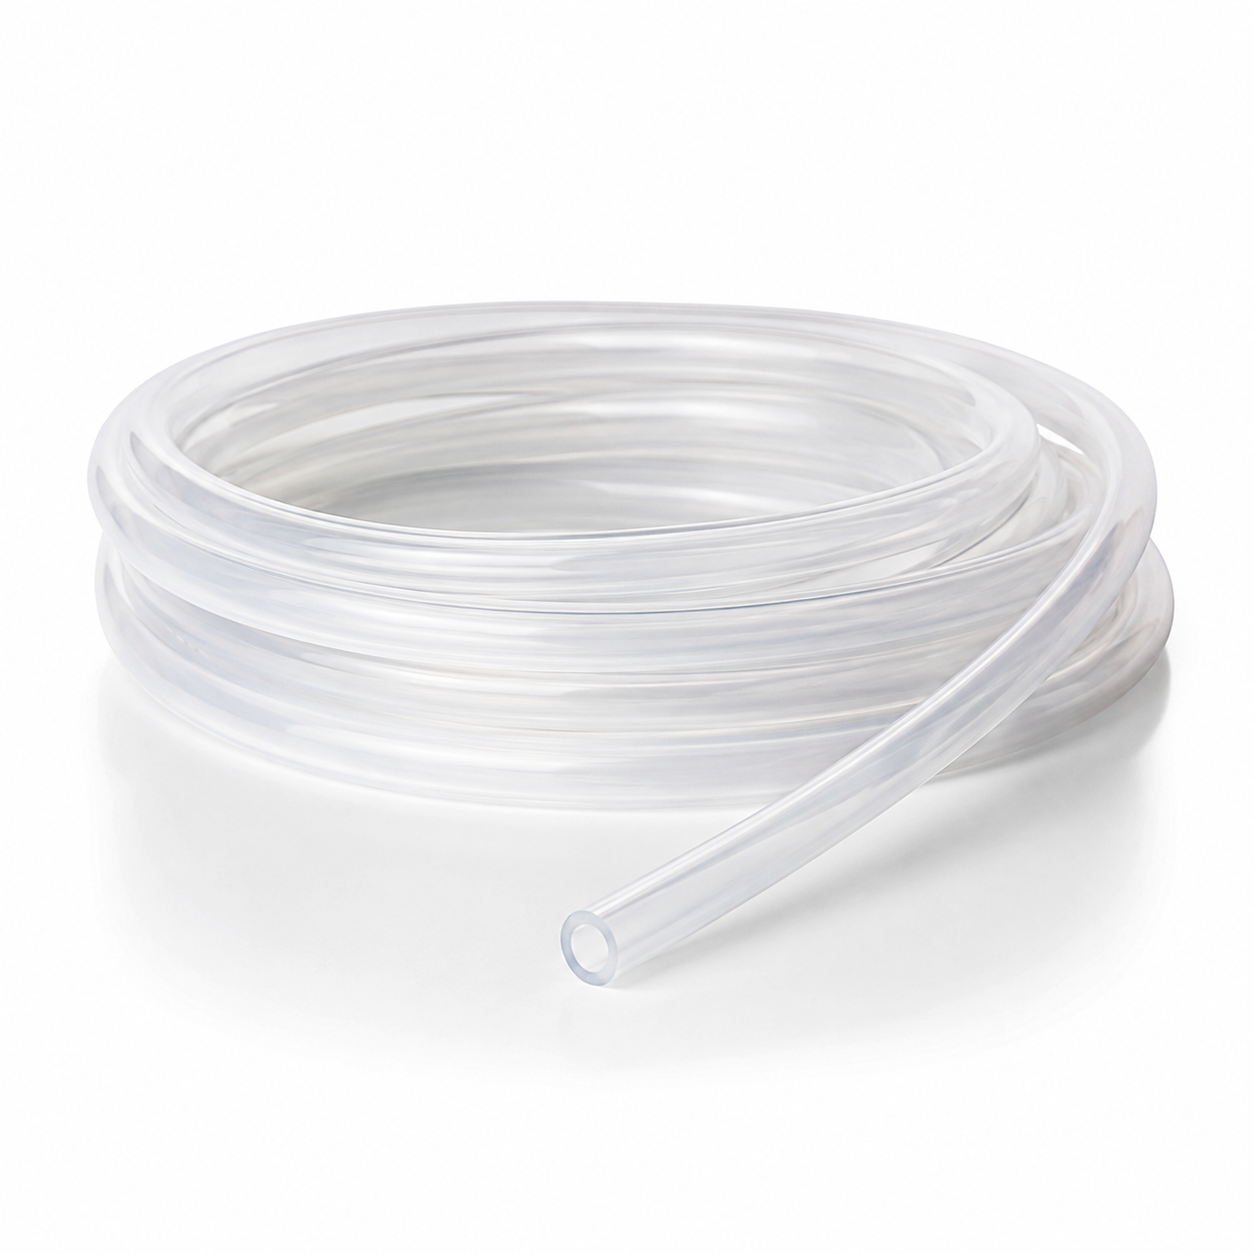
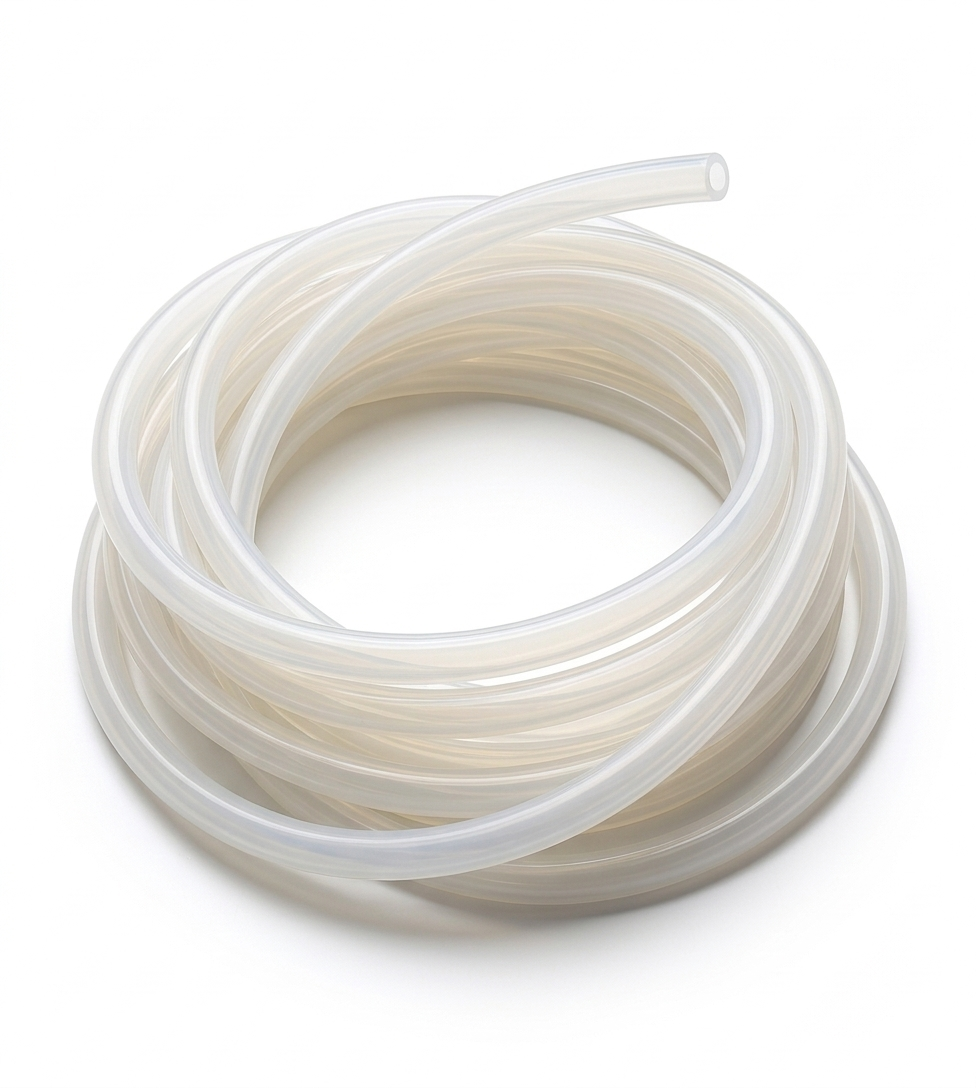
Add files via upload

diff --git a/components/sections/rfq-form.tsx b/components/sections/rfq-form.tsx
@@ -8,139 +8,29 @@ import { products, standardSizes } from '@/lib/products'
 import type { Dictionary } from '@/lib/i18n/get-dictionary'
 
 const initialState: RfqState = { status: 'idle' }
-
-const inputClass =
-  'w-full border border-white/25 bg-white/5 px-3.5 py-2.5 text-sm text-white outline-none transition-colors placeholder:text-white/50 focus:border-accent focus:ring-2 focus:ring-accent/25'
-
+const inputClass = 'w-full border border-input bg-white px-3.5 py-3 text-sm text-foreground outline-none transition-colors placeholder:text-muted-foreground focus:border-accent focus:ring-2 focus:ring-accent/20 [color-scheme:light]'
 const labelClass = 'font-mono text-[0.7rem] tracking-[0.12em] uppercase text-muted-foreground'
 
 export function RfqForm({ dict }: { dict: Dictionary }) {
   const [state, formAction, pending] = useActionState(submitRfq, initialState)
   const f = dict.rfq.fields
-
-  if (state.status === 'success') {
-    return (
-      <div className="flex flex-col items-start gap-3 border border-accent/40 bg-card p-8">
-        <CheckCircle2 className="size-7 text-accent" aria-hidden="true" />
-        <h3 className="font-display text-xl font-bold tracking-tight text-primary">{dict.rfq.successTitle}</h3>
-        <p className="text-sm leading-relaxed text-muted-foreground">{dict.rfq.successText}</p>
-      </div>
-    )
-  }
-
+  if (state.status === 'success') return <div className="flex flex-col items-start gap-3 border border-accent/40 bg-card p-7"><CheckCircle2 className="size-7 text-accent" aria-hidden="true" /><h3 className="font-display text-xl font-bold tracking-tight text-primary">{dict.rfq.successTitle}</h3><p className="text-sm leading-relaxed text-muted-foreground">{dict.rfq.successText}</p></div>
   return (
-    <form action={formAction} className="flex flex-col gap-5 border border-border bg-card p-6 md:p-8">
-      <div className="grid gap-5 sm:grid-cols-2">
-        <div className="flex flex-col gap-1.5">
-          <label htmlFor="rfq-company" className={labelClass}>
-            {f.company} *
-          </label>
-          <input id="rfq-company" name="company" required maxLength={160} className={inputClass} />
-        </div>
-        <div className="flex flex-col gap-1.5">
-          <label htmlFor="rfq-name" className={labelClass}>
-            {f.name} *
-          </label>
-          <input id="rfq-name" name="name" required maxLength={160} className={inputClass} />
-        </div>
-        <div className="flex flex-col gap-1.5">
-          <label htmlFor="rfq-email" className={labelClass}>
-            {f.email} *
-          </label>
-          <input
-            id="rfq-email"
-            name="email"
-            type="email"
-            required
-            autoComplete="email"
-            maxLength={200}
-            className={inputClass}
-          />
-        </div>
-        <div className="flex flex-col gap-1.5">
-          <label htmlFor="rfq-phone" className={labelClass}>
-            {f.phone} <span className="normal-case">({f.optional})</span>
-          </label>
-          <input id="rfq-phone" name="phone" type="tel" autoComplete="tel" maxLength={60} className={inputClass} />
-        </div>
-        <div className="flex flex-col gap-1.5">
-          <label htmlFor="rfq-country" className={labelClass}>
-            {f.country} <span className="normal-case">({f.optional})</span>
-          </label>
-          <input id="rfq-country" name="country" maxLength={80} className={inputClass} />
-        </div>
-        <div className="flex flex-col gap-1.5">
-          <label htmlFor="rfq-quantity" className={labelClass}>
-            {f.quantity} <span className="normal-case">({f.optional})</span>
-          </label>
-          <input id="rfq-quantity" name="quantity" maxLength={80} className={inputClass} />
-        </div>
-        <div className="flex flex-col gap-1.5 sm:col-span-2">
-          <label htmlFor="rfq-product" className={labelClass}>
-            {f.product}
-          </label>
-          <select id="rfq-product" name="product" defaultValue="" className={inputClass}>
-            <option value="" disabled>
-              {f.productPlaceholder}
-            </option>
-            {products.map((product) => (
-              <option key={product.id} value={product.code}>
-                {dict.products.items[product.id].name} ({product.code})
-              </option>
-            ))}
-            <option value="other">{f.productOther}</option>
-          </select>
-        </div>
-        <div className="flex flex-col gap-1.5 sm:col-span-2">
-          <label htmlFor="rfq-size" className={labelClass}>{f.size}</label>
-          <select id="rfq-size" name="size" defaultValue="" className={inputClass}>
-            <option value="" disabled>{f.sizePlaceholder}</option>
-            {standardSizes.map((size) => <option key={size} value={`${size} mm`}>{size} mm</option>)}
-            <option value="custom">{f.sizeCustom}</option>
-          </select>
-        </div>
-        <div className="flex flex-col gap-1.5 sm:col-span-2">
-          <label htmlFor="rfq-message" className={labelClass}>
-            {f.message}
-          </label>
-          <textarea
-            id="rfq-message"
-            name="message"
-            rows={5}
-            maxLength={4000}
-            placeholder={f.messagePlaceholder}
-            className={`${inputClass} resize-y leading-relaxed`}
-          />
-        </div>
+    <form action={formAction} className="liquid-card flex flex-col gap-5 border border-border bg-card p-5 md:p-7">
+      <div className="grid gap-4 sm:grid-cols-2">
+        <div className="flex flex-col gap-1.5"><label htmlFor="rfq-company" className={labelClass}>{f.company} *</label><input id="rfq-company" name="company" required maxLength={160} className={inputClass} /></div>
+        <div className="flex flex-col gap-1.5"><label htmlFor="rfq-name" className={labelClass}>{f.name} *</label><input id="rfq-name" name="name" required maxLength={160} className={inputClass} /></div>
+        <div className="flex flex-col gap-1.5"><label htmlFor="rfq-email" className={labelClass}>{f.email} *</label><input id="rfq-email" name="email" type="email" required autoComplete="email" maxLength={200} className={inputClass} /></div>
+        <div className="flex flex-col gap-1.5"><label htmlFor="rfq-phone" className={labelClass}>{f.phone} <span className="normal-case">({f.optional})</span></label><input id="rfq-phone" name="phone" type="tel" autoComplete="tel" maxLength={60} className={inputClass} /></div>
+        <div className="flex flex-col gap-1.5"><label htmlFor="rfq-country" className={labelClass}>{f.country} <span className="normal-case">({f.optional})</span></label><input id="rfq-country" name="country" maxLength={80} className={inputClass} /></div>
+        <div className="flex flex-col gap-1.5"><label htmlFor="rfq-quantity" className={labelClass}>{f.quantity} <span className="normal-case">({f.optional})</span></label><input id="rfq-quantity" name="quantity" maxLength={80} className={inputClass} /></div>
+        <div className="flex flex-col gap-1.5 sm:col-span-2"><label htmlFor="rfq-product" className={labelClass}>{f.product}</label><select id="rfq-product" name="product" defaultValue="" className={inputClass}><option value="" disabled>{f.productPlaceholder}</option>{products.map((product) => <option key={product.id} value={product.code}>{dict.products.items[product.id].name} ({product.code})</option>)}<option value="other">{f.productOther}</option></select></div>
+        <div className="flex flex-col gap-1.5 sm:col-span-2"><label htmlFor="rfq-size" className={labelClass}>{f.size}</label><select id="rfq-size" name="size" defaultValue="" className={inputClass}><option value="" disabled>{f.sizePlaceholder}</option>{standardSizes.map((size) => <option key={size} value={`${size} mm`}>{size} mm</option>)}<option value="custom">{f.sizeCustom}</option></select></div>
+        <div className="flex flex-col gap-1.5 sm:col-span-2"><label htmlFor="rfq-message" className={labelClass}>{f.message}</label><textarea id="rfq-message" name="message" rows={4} maxLength={4000} placeholder={f.messagePlaceholder} className={`${inputClass} resize-y leading-relaxed`} /></div>
       </div>
-
-      {/* Honeypot — hidden from users, catches automated submissions */}
-      <div className="sr-only" aria-hidden="true">
-        <label htmlFor="rfq-website">Website</label>
-        <input id="rfq-website" name="website" tabIndex={-1} autoComplete="off" />
-      </div>
-
-      {state.status !== 'idle' && (
-        <p
-          role="alert"
-          className="flex items-start gap-2.5 border border-destructive/30 bg-destructive/5 p-3.5 text-sm leading-relaxed text-destructive"
-        >
-          <AlertTriangle className="mt-0.5 size-4 shrink-0" aria-hidden="true" />
-          {state.status === 'invalid' ? dict.rfq.required : dict.rfq.errorText}
-        </p>
-      )}
-
-      <div className="flex flex-wrap items-center gap-x-5 gap-y-3">
-        <button
-          type="submit"
-          disabled={pending}
-          className="inline-flex items-center gap-2 bg-accent px-6 py-3.5 text-sm font-semibold text-accent-foreground transition-colors hover:bg-[#f08a44] disabled:cursor-not-allowed disabled:opacity-60"
-        >
-          <Send className="size-4" aria-hidden="true" />
-          {pending ? dict.rfq.submitting : dict.rfq.submit}
-        </button>
-        <p className="text-xs leading-relaxed text-muted-foreground">{dict.rfq.privacy}</p>
-      </div>
+      <div className="sr-only" aria-hidden="true"><label htmlFor="rfq-website">Website</label><input id="rfq-website" name="website" tabIndex={-1} autoComplete="off" /></div>
+      {state.status !== 'idle' && <p role="alert" className="flex items-start gap-2.5 border border-destructive/30 bg-destructive/5 p-3.5 text-sm leading-relaxed text-destructive"><AlertTriangle className="mt-0.5 size-4 shrink-0" aria-hidden="true" />{state.status === 'invalid' ? dict.rfq.required : dict.rfq.errorText}</p>}
+      <div className="flex flex-wrap items-center gap-x-5 gap-y-3"><button type="submit" disabled={pending} className="inline-flex items-center gap-2 bg-accent px-6 py-3.5 text-sm font-semibold text-accent-foreground transition-colors hover:bg-accent/85 disabled:cursor-not-allowed disabled:opacity-60"><Send className="size-4" aria-hidden="true" />{pending ? dict.rfq.submitting : dict.rfq.submit}</button><p className="text-xs leading-relaxed text-muted-foreground">{dict.rfq.privacy}</p></div>
     </form>
   )
 }

diff --git a/components/sections/hero.tsx b/components/sections/hero.tsx
@@ -1,4 +1,3 @@
-import Image from 'next/image'
 import { ArrowRight } from 'lucide-react'
 
 import { SiliconeFlow } from '@/components/sections/silicone-flow'
@@ -7,61 +6,31 @@ import type { Dictionary } from '@/lib/i18n/get-dictionary'
 export function Hero({ dict }: { dict: Dictionary }) {
   return (
     <section className="hero-device relative isolate overflow-hidden bg-background">
-      <Image
-        src="/production-line-new.png"
-        alt={dict.hero.imageAlt}
-        fill
-        priority
-        sizes="100vw"
-        className="absolute inset-0 -z-20 object-cover opacity-18"
-      />
-      <div
-        aria-hidden="true"
-        className="absolute inset-0 -z-10 bg-linear-to-r from-white via-white/92 to-white/58"
-      />
+      <div aria-hidden="true" className="absolute inset-0 -z-20 bg-[radial-gradient(circle_at_68%_42%,rgba(232,243,249,.95),rgba(255,255,255,.35)_32%,transparent_58%),linear-gradient(120deg,#ffffff_0%,#f7fafc_42%,#edf4f7_100%)]" />
       <SiliconeFlow />
-      <div className="container-page relative flex flex-col justify-end pt-16 pb-0 md:pt-24 lg:min-h-[36rem]">
-        <div className="max-w-3xl pb-14 md:pb-20">
-          <p className="font-mono text-xs tracking-[0.2em] uppercase text-accent">
-            {dict.hero.eyebrow}
-          </p>
-          <h1 className="mt-6 font-display text-4xl leading-[1.05] font-bold tracking-tight text-balance text-primary sm:text-5xl lg:text-6xl">
+      <div className="container-page relative flex min-h-[calc(100svh-5.5rem)] flex-col justify-center py-14 md:py-18 lg:min-h-[calc(100svh-6rem)]">
+        <div className="max-w-2xl">
+          <p className="font-mono text-xs tracking-[0.18em] uppercase text-accent">{dict.hero.eyebrow}</p>
+          <h1 className="mt-5 font-display text-4xl leading-[1.04] font-bold tracking-tight text-balance text-primary sm:text-5xl lg:text-[4.6rem]">
             {dict.hero.title}
           </h1>
-          <p className="mt-6 max-w-2xl text-base leading-relaxed text-pretty text-muted-foreground md:text-lg">
+          <p className="mt-5 max-w-xl text-base leading-relaxed text-pretty text-muted-foreground md:text-lg">
             {dict.hero.lead}
           </p>
-          <div className="mt-9 flex flex-wrap items-center gap-3">
-            <a
-              href="#contact"
-              className="inline-flex items-center gap-2 bg-accent px-6 py-3.5 text-sm font-semibold text-accent-foreground transition-colors hover:bg-accent/85"
-            >
-              {dict.hero.primaryCta}
-              <ArrowRight className="size-4" aria-hidden="true" />
+          <div className="mt-8 flex flex-wrap items-center gap-3">
+            <a href="#contact" className="inline-flex items-center gap-2 bg-accent px-6 py-3.5 text-sm font-semibold text-accent-foreground transition-colors hover:bg-accent/85">
+              {dict.hero.primaryCta}<ArrowRight className="size-4" aria-hidden="true" />
             </a>
-            <a
-              href="#products"
-              className="inline-flex items-center gap-2 border border-primary/25 px-6 py-3.5 text-sm font-semibold text-primary transition-colors hover:border-primary/60"
-            >
+            <a href="#products" className="inline-flex items-center gap-2 border border-primary/25 bg-white/55 px-6 py-3.5 text-sm font-semibold text-primary backdrop-blur transition-colors hover:border-primary/60 hover:bg-white/80">
               {dict.hero.secondaryCta}
             </a>
           </div>
         </div>
-
-        <dl className="grid grid-cols-2 border-t border-primary-foreground/15 lg:grid-cols-4">
+        <dl className="mt-12 grid grid-cols-2 border-t border-primary/12 lg:grid-cols-4">
           {dict.hero.facts.map((fact, index) => (
-            <div
-              key={fact.label}
-              className={`flex flex-col gap-1.5 py-6 lg:py-7 ${
-                index === 0 ? 'lg:pr-8' : 'lg:px-8'
-              } ${index % 2 === 1 ? 'border-l border-primary-foreground/15 pl-5' : 'pr-5'} ${
-                index > 1 ? 'border-t border-primary-foreground/15 lg:border-t-0' : ''
-              } lg:border-l lg:first:border-l-0 lg:first:pl-0`}
-            >
+            <div key={fact.label} className={`flex flex-col gap-1.5 py-5 lg:py-6 ${index === 0 ? 'lg:pr-8' : 'lg:px-8'} ${index % 2 === 1 ? 'border-l border-primary/12 pl-5' : 'pr-5'} ${index > 1 ? 'border-t border-primary/12 lg:border-t-0' : ''} lg:border-l lg:first:border-l-0 lg:first:pl-0`}>
               <dt className="order-2 text-xs leading-relaxed text-primary/60">{fact.label}</dt>
-              <dd className="order-1 font-display text-xl font-bold tracking-tight text-primary md:text-2xl">
-                {fact.value}
-              </dd>
+              <dd className="order-1 font-display text-xl font-bold tracking-tight text-primary md:text-2xl">{fact.value}</dd>
             </div>
           ))}
         </dl>

diff --git a/app/globals.css b/app/globals.css
@@ -179,3 +179,11 @@ html{background:#f8fafb}.text-muted-foreground{color:#526579!important}.bg-backg
 @media (min-width: 769px) and (max-width: 1180px){.section-device{padding-top:5rem!important;padding-bottom:5rem!important}}
 @media (min-width: 1181px){.section-device{padding-top:6.5rem!important;padding-bottom:6.5rem!important}}
 .silicone-flow{position:absolute;right:clamp(-90px,2vw,40px);top:52%;z-index:-5;width:min(58vw,760px);transform:translateY(-50%);opacity:.72;pointer-events:none}.silicone-flow__svg{width:100%;height:auto;overflow:visible}.silicone-flow__shadow{fill:none;stroke:rgba(23,54,93,.10);stroke-width:58;stroke-linecap:round;filter:blur(18px)}.silicone-flow__tube{fill:none;stroke:url(#tubeStroke);stroke-width:46;stroke-linecap:round;filter:url(#softGlass)}.silicone-flow__core{fill:none;stroke:url(#tubeCore);stroke-width:25;stroke-linecap:round;opacity:.72}.silicone-flow__highlight{fill:none;stroke:#fff;stroke-width:6;stroke-linecap:round;stroke-dasharray:90 620;animation:flow-glint 4.8s cubic-bezier(.16,1,.3,1) infinite}.silicone-flow__highlight--two{stroke-width:3;opacity:.68;animation-delay:1.4s}.silicone-flow__end{fill:rgba(232,242,248,.85);stroke:rgba(23,54,93,.20);stroke-width:2}.silicone-flow__hole{fill:rgba(23,54,93,.18);stroke:rgba(255,255,255,.75);stroke-width:2}@keyframes flow-glint{0%{stroke-dashoffset:720;opacity:0}18%{opacity:.9}72%{opacity:.65}100%{stroke-dashoffset:0;opacity:0}}@media(max-width:900px){.silicone-flow{right:-38%;top:44%;width:115vw;opacity:.36}}@media(prefers-reduced-motion:reduce){.silicone-flow__highlight{animation:none}}
+
+
+/* Liquid silicone glass surfaces */
+.liquid-card,.liquid-glass-strong{background:rgba(255,255,255,.58)!important;background-blend-mode:luminosity;backdrop-filter:blur(28px);-webkit-backdrop-filter:blur(28px);box-shadow:0 1px 2px rgba(23,54,93,.05),inset 0 1px 1px rgba(255,255,255,.65);position:relative;overflow:hidden}.liquid-card::before,.liquid-glass-strong::before{content:"";position:absolute;inset:0;padding:1px;background:linear-gradient(180deg,rgba(255,255,255,.9),rgba(255,255,255,.2) 36%,rgba(23,54,93,.08) 62%,rgba(255,255,255,.8));-webkit-mask:linear-gradient(#fff 0 0) content-box,linear-gradient(#fff 0 0);-webkit-mask-composite:xor;mask-composite:exclude;pointer-events:none}.hero-device .container-page{min-height:calc(100svh - 7rem)!important}.section-device{padding-top:4.5rem!important;padding-bottom:4.5rem!important}@media(max-width:768px){.hero-device .container-page{min-height:auto!important;padding-top:5rem!important;padding-bottom:2.25rem!important}.section-device{padding-top:3.25rem!important;padding-bottom:3.25rem!important}.silicone-flow{top:46%;}}
+
+
+/* Final compact layout + readable RFQ + liquid silicone hero */
+header .container-page{max-width:1160px}.container-page{max-width:1160px}.hero-device{min-height:clamp(560px,calc(100svh - 0px),760px)!important}.hero-device .container-page{min-height:clamp(500px,calc(100svh - 7rem),680px)!important}.section-device{padding-top:3.75rem!important;padding-bottom:3.75rem!important}.scroll-mt-28{scroll-margin-top:5.25rem}.hero-device img{display:none!important}.silicone-flow{right:clamp(-160px,-6vw,-40px)!important;top:49%!important;width:min(72vw,920px)!important;opacity:.92!important}.silicone-flow__shadow{stroke:rgba(23,54,93,.12)!important;stroke-width:76!important;filter:blur(22px)!important}.silicone-flow__tube{stroke-width:58!important}.silicone-flow__core{stroke-width:34!important;opacity:.76!important}.silicone-flow__highlight{stroke-width:8!important;stroke-dasharray:120 760!important}.liquid-card{background:rgba(255,255,255,.86)!important;backdrop-filter:blur(20px);-webkit-backdrop-filter:blur(20px)}.liquid-card input,.liquid-card textarea,.liquid-card select{background:#fff!important;color:#17365d!important;border-color:#b9c9d4!important}.liquid-card input::placeholder,.liquid-card textarea::placeholder{color:#718395!important}.liquid-card label{color:#526579!important}.liquid-card option{color:#17365d;background:#fff}.bg-primary{background:#17365d!important}.text-primary-foreground\/80{color:rgba(255,255,255,.86)!important}@media(max-width:900px){.silicone-flow{right:-56%!important;top:45%!important;width:150vw!important;opacity:.42!important}.hero-device{min-height:auto!important}.hero-device .container-page{min-height:auto!important;padding-top:5.25rem!important;padding-bottom:2rem!important}.section-device{padding-top:3rem!important;padding-bottom:3rem!important}}

diff --git a/components/site-header.tsx b/components/site-header.tsx
@@ -24,14 +24,14 @@ export function SiteHeader({ locale, dict }: { locale: Locale; dict: Dictionary 
   return (
     <header className="sticky top-0 z-50">
       <div className="hidden bg-primary text-primary-foreground/80 md:block">
-        <div className="container-page flex h-9 items-center justify-between text-xs">
+        <div className="container-page flex h-6 items-center justify-between text-[10px]">
           <p className="flex items-center gap-2">
             <MapPin className="size-3.5 shrink-0 text-accent" aria-hidden="true" />
             <span>
               {company.street}, {company.postalCode} {company.city}, {company.country}
             </span>
           </p>
-          <div className="flex items-center gap-5">
+          <div className="flex items-center gap-4">
             <a href={`tel:${company.phoneHref}`} className="flex items-center gap-2 transition-colors hover:text-primary-foreground">
               <Phone className="size-3.5 shrink-0 text-accent" aria-hidden="true" />
               {company.phone}
@@ -46,7 +46,7 @@ export function SiteHeader({ locale, dict }: { locale: Locale; dict: Dictionary 
       </div>
 
       <div className="border-b border-border bg-background/95 backdrop-blur supports-[backdrop-filter]:bg-background/85">
-        <div className="container-page flex h-16 items-center justify-between gap-6 lg:h-20">
+        <div className="container-page flex h-13 items-center justify-between gap-4 lg:h-14">
           <Link href={`/${locale}`} className="flex shrink-0 items-center" aria-label={company.name}>
             <Image
               src="/silvotech-logo-user.png"
@@ -54,17 +54,17 @@ export function SiteHeader({ locale, dict }: { locale: Locale; dict: Dictionary 
               width={1360}
               height={456}
               priority
-              className="h-9 w-auto max-w-44 object-contain lg:h-10 lg:max-w-48"
+              className="h-7 w-auto max-w-36 object-contain lg:h-8 lg:max-w-40"
             />
           </Link>
 
           <nav aria-label={dict.nav.menu} className="hidden lg:block">
-            <ul className="flex items-center gap-7">
+            <ul className="flex items-center gap-4">
               {links.map((link) => (
                 <li key={link.href}>
                   <a
                     href={link.href}
-                    className="text-sm font-medium text-foreground/75 transition-colors hover:text-accent"
+                    className="text-xs font-medium text-foreground/75 transition-colors hover:text-accent"
                   >
                     {link.label}
                   </a>
@@ -81,7 +81,7 @@ export function SiteHeader({ locale, dict }: { locale: Locale; dict: Dictionary 
             />
             <a
               href="#contact"
-              className="hidden bg-accent px-4 py-2.5 text-sm font-semibold text-accent-foreground transition-colors hover:bg-primary sm:inline-flex"
+              className="hidden bg-accent px-3.5 py-2 text-sm font-semibold text-accent-foreground transition-colors hover:bg-primary sm:inline-flex"
             >
               {dict.nav.cta}
             </a>

diff --git a/components/sections/silicone-flow.tsx b/components/sections/silicone-flow.tsx
@@ -1,7 +1,7 @@
 export function SiliconeFlow() {
   return (
     <div className="silicone-flow" aria-hidden="true">
-      <svg viewBox="0 0 900 520" className="silicone-flow__svg" role="img">
+      <svg viewBox="0 0 1000 560" className="silicone-flow__svg" role="img">
         <defs>
           <linearGradient id="tubeStroke" x1="0" x2="1" y1="0" y2="0">
             <stop offset="0%" stopColor="rgba(255,255,255,0.15)" />
@@ -18,13 +18,13 @@ export function SiliconeFlow() {
             <feGaussianBlur in="SourceGraphic" stdDeviation="0.5" />
           </filter>
         </defs>
-        <path className="silicone-flow__shadow" d="M72 312 C184 132 370 125 474 244 C558 340 701 364 817 205" />
-        <path className="silicone-flow__tube" d="M72 312 C184 132 370 125 474 244 C558 340 701 364 817 205" />
-        <path className="silicone-flow__core" d="M72 312 C184 132 370 125 474 244 C558 340 701 364 817 205" />
-        <path className="silicone-flow__highlight silicone-flow__highlight--one" d="M72 312 C184 132 370 125 474 244 C558 340 701 364 817 205" />
-        <path className="silicone-flow__highlight silicone-flow__highlight--two" d="M72 312 C184 132 370 125 474 244 C558 340 701 364 817 205" />
-        <ellipse className="silicone-flow__end" cx="817" cy="205" rx="34" ry="20" transform="rotate(-34 817 205)" />
-        <ellipse className="silicone-flow__hole" cx="817" cy="205" rx="18" ry="9" transform="rotate(-34 817 205)" />
+        <path className="silicone-flow__shadow" d="M58 338 C190 92 430 112 520 270 C610 428 815 386 940 138" />
+        <path className="silicone-flow__tube" d="M58 338 C190 92 430 112 520 270 C610 428 815 386 940 138" />
+        <path className="silicone-flow__core" d="M58 338 C190 92 430 112 520 270 C610 428 815 386 940 138" />
+        <path className="silicone-flow__highlight silicone-flow__highlight--one" d="M58 338 C190 92 430 112 520 270 C610 428 815 386 940 138" />
+        <path className="silicone-flow__highlight silicone-flow__highlight--two" d="M58 338 C190 92 430 112 520 270 C610 428 815 386 940 138" />
+        <ellipse className="silicone-flow__end" cx="940" cy="138" rx="34" ry="20" transform="rotate(-34 940 138)" />
+        <ellipse className="silicone-flow__hole" cx="940" cy="138" rx="18" ry="9" transform="rotate(-34 940 138)" />
       </svg>
     </div>
   )
